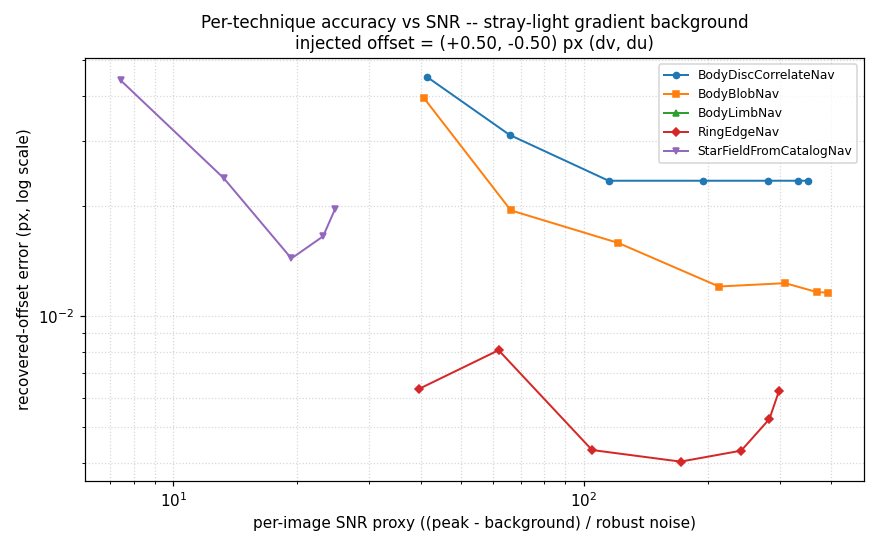
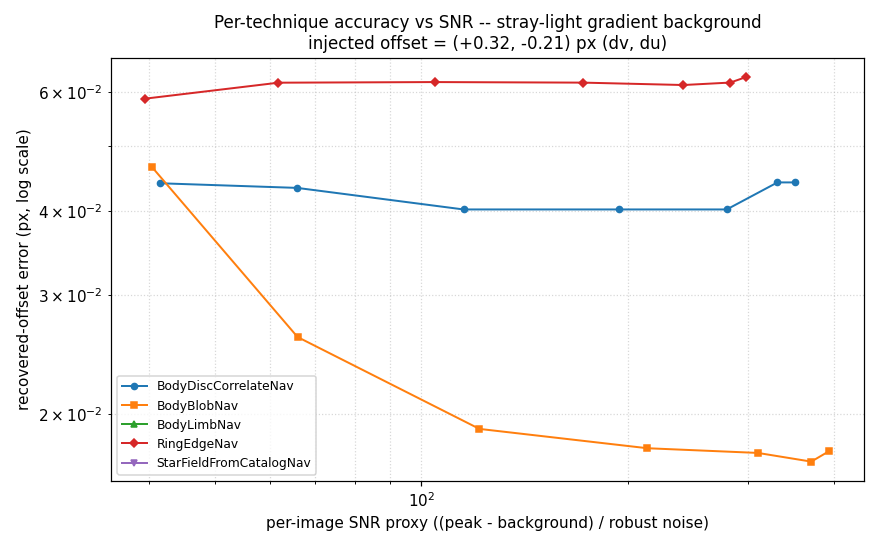
docs: use an arbitrary fixed offset for the SNR characterization
A round-number offset (0.5, -0.5) lands on the disc and ring sub-pixel-bias
nulls, flattering both. Switch the SNR-vs-accuracy panels to a fixed off-grid
offset (+0.317, -0.211) px, which exposes the techniques' true off-grid behaviour:
the disc carries a residual ~0.03 px bias (up to ~0.1 px at its worst phase) and
the ring ~0.06 px, both flat with SNR; the blob is most accurate at high SNR and
the star improves with SNR. Under the stray-light gradient the limb and star field
drop out entirely while the bright disc/blob/ring survive. Update the panel
annotations and the report prose accordingly.

diff --git a/tests/integration/technique_snr_characterization.py b/tests/integration/technique_snr_characterization.py
@@ -41,7 +41,7 @@ _FIGURES_ROOT = Path(__file__).parent.parent.parent / 'docs' / 'simulator_report
 # For the SNR-vs-accuracy figures: a fixed, modest sub-pixel offset inside every
 # technique's capture range, so the only variable across that sweep is the noise
 # (and the background).
-_OFFSET = (0.5, -0.5)
+_OFFSET = (0.317, -0.211)
 # Read-noise grid (DN) for the SNR-vs-accuracy figures: clean frame down toward the
 # navigability cliff.
 _READ_NOISE = [1.0, 2.0, 4.0, 8.0, 16.0, 32.0, 64.0]

diff --git a/docs/simulator_report/simulator_report.rst b/docs/simulator_report/simulator_report.rst
@@ -589,8 +589,11 @@ are stated on each panel) and both are simulated, since a real image's true offs
 unknown.
 
 **Accuracy versus SNR (fixed injected offset).** Each technique's base scene is rendered at a
-fixed ``(dv, du) = (+0.50, -0.50)`` px offset while the per-image read noise is swept from a
-clean frame down toward the navigability cliff; the x-axis is a uniform per-image SNR proxy
+fixed ``(dv, du) = (+0.317, -0.211)`` px offset -- deliberately off the half- and
+quarter-pixel grid, since a round-number offset can land on a technique's sub-pixel-bias null
+and flatter the result (the disc, for instance, recovers a half-pixel offset *exactly* but
+carries a residual off-grid bias). The per-image read noise is swept from a clean frame down
+toward the navigability cliff; the x-axis is a uniform per-image SNR proxy
 ``(peak - background) / robust_noise`` (the noise estimated from adjacent-pixel differences
 so a stray-light ramp does not inflate it). Because each technique's feature has a different
 intrinsic brightness, the curves occupy different SNR bands -- itself part of the
@@ -600,19 +603,24 @@ characterization.
    :width: 100%
    :alt: Per-technique recovered-offset error vs SNR, nominal background.
 
-   Nominal background. The disc is flat at ~0.004 px and the ring sits at
-   ~0.003-0.007 px -- both essentially noise-immune over their range. The blob and star
-   improve steadily with SNR. The limb is pinned near its ~0.15 px distance-transform bias
-   floor regardless of SNR, which is why that bias is a separate follow-up rather than a
-   noise problem.
+   Nominal background. The disc (~0.03 px) and ring (~0.06 px) are flat with SNR --
+   noise-immune but carrying a residual *off-grid* sub-pixel bias that a round-number offset
+   would have hidden (both recover the half-pixel offset far more tightly; the disc's
+   off-grid residual reaches ~0.1 px at its worst sub-pixel phase). The blob is the most
+   accurate at high SNR (~0.008 px) and the star improves steadily with SNR. The limb is
+   pinned near its ~0.15 px distance-transform bias floor regardless of SNR, which is why that
+   bias is a separate follow-up rather than a noise problem.
 
 .. figure:: _figures/technique_snr_gradient.png
    :width: 100%
    :alt: Per-technique recovered-offset error vs SNR, stray-light gradient.
 
-   A gentle stray-light gradient (linear ramp ~3% of full scale). The disc loses the most
-   accuracy -- its full-FOV correlation is the most gradient-sensitive -- while the ring is
-   the most robust; the curves otherwise keep their nominal ordering.
+   A gentle stray-light gradient (linear ramp ~3% of full scale). The bright compact and
+   extended features survive -- the blob stays most accurate (~0.016 px), the disc rises to
+   ~0.04 px, the ring to ~0.06 px -- but the limb and star field drop out entirely: the ramp
+   pushes the dim-field detections and the limb edge below their working point, so neither
+   returns a result (their curves are absent). Stray light is therefore a far bigger threat to
+   the faint-feature techniques than read noise alone.
 
 **Accuracy versus injected offset (fixed SNR).** Holding the read noise at three levels, a
 pure-vertical offset is swept from 0 to 1.75 px (``u`` held at 0) for every technique. The
